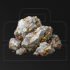
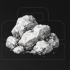
Retry deposit across fallback drop slots when target slot is occupied
First deposit succeeded because the target slot was empty; later rounds
dragged onto the now-occupied slot, no dialog appeared, and the Max/O
clicks hit nothing.

- config.drop_candidates(): DROP_POINT plus a 3x2 grid of neighbour slots
- deposit_to_trunk retries DEPOSIT_RETRIES times inside the same trunk
  window, advancing to the next drop slot each attempt
- Optional dialog_template.png check skips the Max/O clicks when the
  amount dialog did not open (calibrate hotkey [9] captures it)
- Counter is verified after each attempt without closing the window

Changed region(s): [[0.0857, 0.2, 0.8857, 0.8]]

diff --git a/stone_actions.py b/stone_actions.py
@@ -16,7 +16,8 @@ import config
 import stone_input as inp
 from stone_detector import (find_stone_slot, is_stone_empty, is_garage_open,
                             is_bag_open, is_drinking, is_eating, is_map_open,
-                            template_available, save_debug_screenshot)
+                            is_dialog_open, template_available,
+                            save_debug_screenshot)
 
 
 def _recover(sct):
@@ -162,26 +163,47 @@ def deposit_to_trunk(sct):
         inp.press_esc()
         return False
 
-    # Step 2: หา slot Stone (เลื่อนขึ้นบนสุด แล้วไล่เลื่อนลงถ้ายังไม่เจอ)
-    slot = _find_slot_with_scroll(sct, config.INVENTORY_REGION, "ฝาก")
+    # Step 2-3: ลากไอเทม → dialog → Max → O
+    # รอบแรกช่องปลายทางว่าง ลากลงได้ แต่รอบต่อไปช่องนั้นมีของแล้ว ลากไม่ลง
+    # → วนลองจุดปล่อยสำรองในหน้าต่างเดิม ไม่ต้องปิดเปิดท้ายรถใหม่
+    check_dialog = template_available(config.DIALOG_TEMPLATE)
+    if not check_dialog:
+        print("[ฝาก] (ข้ามการยืนยัน dialog — ยังไม่มี dialog_template.png)")
 
-    if slot is None:
-        save_debug_screenshot(sct, "no_stone_slot")
-        print("[ฝาก] ✗ หาช่อง Stone ไม่เจอ (เลื่อนขึ้นแล้วก็ไม่เจอ) — ปิดหน้าต่าง")
+    candidates = config.drop_candidates()
+    for attempt in range(1, config.DEPOSIT_RETRIES + 1):
+        slot = _find_slot_with_scroll(sct, config.INVENTORY_REGION, "ฝาก")
+        if slot is None:
+            save_debug_screenshot(sct, "no_stone_slot")
+            print("[ฝาก] ✗ หาช่องไอเทมไม่เจอ (เลื่อนหาแล้วก็ไม่เจอ) — ปิดหน้าต่าง")
+            inp.press_esc()
+            return False
+
+        drop = candidates[(attempt - 1) % len(candidates)]
+        print(f"[ฝาก] ลากไอเทม {slot} → {drop} (ครั้งที่ {attempt}/{config.DEPOSIT_RETRIES})")
+        inp.drag(*slot, *drop, duration=config.DRAG_DURATION)
+        time.sleep(config.DIALOG_OPEN_DELAY)
+
+        if check_dialog and not is_dialog_open(sct):
+            print("[ฝาก] ⚠ dialog ไม่เด้ง (ช่องปลายทางน่าจะมีของอยู่) — ลองจุดปล่อยถัดไป")
+            continue
+
+        print("[ฝาก] คลิก Max...")
+        inp.click(*config.BTN_MAX)
+        time.sleep(config.CLICK_DELAY)
+        print("[ฝาก] คลิกยืนยัน O...")
+        inp.click(*config.BTN_CONFIRM)
+        time.sleep(config.AFTER_DEPOSIT_DELAY)
+
+        # counter บน HUD ยังเห็นได้ทั้งที่หน้าต่างเปิดอยู่ → เช็คได้เลย
+        if is_stone_empty(sct):
+            break
+        print("[ฝาก] ⚠ counter ยังไม่ลด — ลองจุดปล่อยถัดไป")
+    else:
+        save_debug_screenshot(sct, "deposit_failed")
+        print("[ฝาก] ✗ ลากฝากไม่สำเร็จทุกจุดปล่อย — ปิดหน้าต่าง")
         inp.press_esc()
         return False
-
-    print(f"[ฝาก] ลากไอเทม {slot} → {config.DROP_POINT}")
-    inp.drag(*slot, *config.DROP_POINT, duration=config.DRAG_DURATION)
-    time.sleep(config.DIALOG_OPEN_DELAY)
-
-    # Step 3: Max → ยืนยัน O
-    print("[ฝาก] คลิก Max...")
-    inp.click(*config.BTN_MAX)
-    time.sleep(config.CLICK_DELAY)
-    print("[ฝาก] คลิกยืนยัน O...")
-    inp.click(*config.BTN_CONFIRM)
-    time.sleep(config.AFTER_DEPOSIT_DELAY)
 
     # Step 4: ปิดหน้าต่าง
     print("[ฝาก] กด ESC ปิดหน้าต่าง")

diff --git a/stone_detector.py b/stone_detector.py
@@ -218,6 +218,12 @@ def is_eating(sct):
     return is_drinking(sct)
 
 
+def is_dialog_open(sct):
+    """dialog ใส่จำนวน (Min/Max/O) เด้งอยู่ไหม (ต้องมี dialog_template.png จาก calibrate)"""
+    return _screen_has_template(sct, config.DIALOG_TEMPLATE,
+                                config.DIALOG_CHECK_REGION, config.DIALOG_MATCH_THRESHOLD)
+
+
 def is_bag_open(sct):
     """หน้ากระเป๋าส่วนตัว (กด T) เปิดอยู่ไหม (ใช้ template หัวข้อ INVENTORY เดิม)"""
     return _screen_has_template(sct, config.GARAGE_TEMPLATE,
